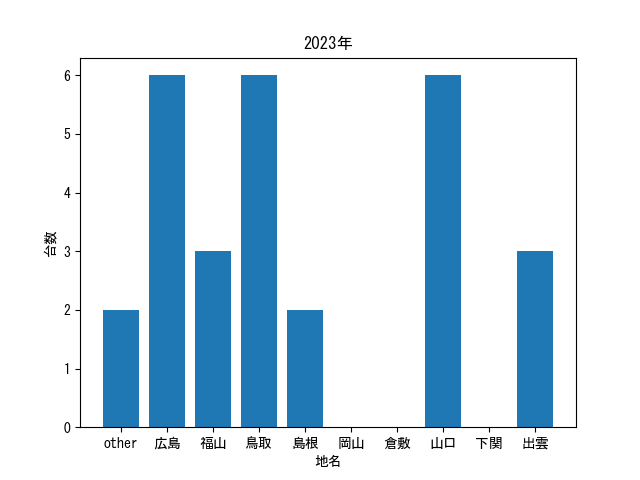
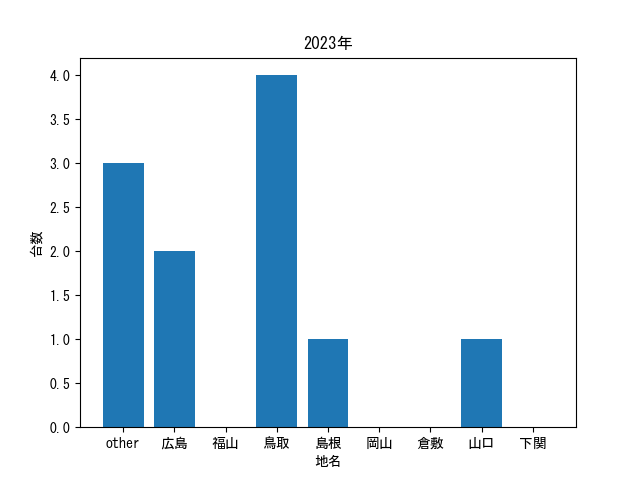
a

diff --git a/test_data/test_annotation3.py b/test_data/test_annotation3.py
@@ -1,0 +1,36 @@
+annotation = [  ['広島', '301', 'や', '39-22'], #test_0
+                ['鳥取', '500', 'ら', '73-24'], #test_1
+                ['鳥取', '580', 'み', '28-77'], #test_2
+                ['鳥取', '580', 'ね', '83-40'], #test_3
+                ['鳥取', '580', 'こ', '68-83'], #test_4
+                ['鳥取', '500', 'も', '60-19'], #test_5
+                ['島根', '300', 'ひ', '30-79'], #test_6
+                ['山口', '54' , 'ら', '90-12'], #test_7
+                ['広島', '584', 'つ', '・421'], #test_8
+                ['鳥取', '300', 'の', '35-62'], #test_9
+                ['広島', '330', 'め', '13-21'], #test_10
+                ['福山', '480', 'こ', '83-21'], #test_11
+                ['広島', '502', 'に', '15-86'], #test_12
+                ['広島', '400', 'に', '15-89'], #test_13
+                ['鳥取', '331', 'ち', '・511'], #test_14
+                ['山口', '331', 'そ', '19-72'], #test_15
+                ['山口', '301', 'そ', '・492'], #test_16
+                ['山口', '581', 'さ', '33-07'], #test_17
+                ['広島', '336', 'や', '・787'], #test_18
+                ['山口', '501', 'ね', '53-46'], #test_19
+                ['福山', '480', 'あ', '78-57'], #test_20
+                ['下関', '500', 'す', '45-36'], #test_21
+                ['下関', '330', 'そ', '・404'], #test_22
+                ['下関', '500', 'す', '45-36'], #test_23
+                ['福山', '480', 'け', '54-18'], #test_24
+                ['福山', '41' , 'き', '83-63'], #test_25
+                ['岡山', '33' , 'は', '88-04'], #test_26
+                ['岡山', '300', 'の', '74-17'], #test_27
+                ['倉敷', '583', 'う', '30-48'], #test_28
+                ['倉敷', '583', 'あ', '37-02'], #test_29
+                ['島根', '530', 'さ', '33-73'], #test_30
+                ['島根', '583', 'あ', '・589'], #test_31
+                ['出雲', '480', 'わ', '・・・1'], #test_32
+                ['出雲', '310', 'す', '85-44'], #test_33
+                ['福山', '555', 'に', '・660'], #test_34
+]

diff --git a/test_rc.py b/test_rc.py
@@ -4,6 +4,8 @@ import numpy as np
 from matplotlib import pyplot as plt
 # from test_data import test_annotation as ta
 from test_data import test_annotation2 as ta
+# from test_data import test_annotation3 as ta
+# from test_data import test_annotation_gotouchi as ta
 
 import glob
 import natsort
@@ -18,10 +20,13 @@ from recognition import NPrecognition_v3 as npr
 
 file_path_list = []
 # files = glob.glob('./images/test_images/*.jpg')
-# files = glob.glob('./images/test_images_2/*.jpg')
-files = glob.glob('./images/test_images_2_dark/*.jpg')
+files = glob.glob('./images/test_images_2/*.jpg')
+# files = glob.glob('./images/test_images_2_2/*.jpg')
+# files = glob.glob('./images/test_images_2_dark/*.jpg')
 # files = glob.glob('./images/test_images_2_dark_top/*.jpg')
 # files = glob.glob('./images/test_images_2_light/*.jpg')
+# files = glob.glob('./images/gotouchi/*.jpg')
+
 for i in natsort.natsorted(files):
     file_path_list.append(i)
 

diff --git a/test_data/test_annotation_gotouchi.py b/test_data/test_annotation_gotouchi.py
@@ -1,0 +1,16 @@
+annotation = [  ['鳥取', '599', 'あ', '20-46'],     #test_0
+                ['山口', '599', 'さ', '20-46'],
+                ['鳥取', '599', 'あ', '20-46'],
+                ['出雲', '599', 'あ', '20-46'],
+                ['出雲', '599', 'あ', '20-46'],
+                ['下関', '599', 'さ', '20-46'],
+                ['下関', '599', 'さ', '20-46'],
+                ['福山', '599', 'あ', '20-46'],
+                ['広島', '599', 'さ', '20-46'],
+                ['広島', '599', 'さ', '20-46'],
+                ['広島', '599', 'さ', '20-46'],
+                ['山口', '599', 'さ', '20-46'],
+                ['福山', '555', 'に', '・660'],
+                ['福山', '330', 'も', '29-80'],
+                ['岡山', '530', 'い', '20-20'],
+]

diff --git a/model_figure.py b/model_figure.py
@@ -1,0 +1,5 @@
+import tensorflow as tf
+
+model = tf.keras.models.load_model("./myModels/area_model(e)1", compile=False)
+
+tf.keras.utils.plot_model(model, show_shapes=True, expand_nested=True, to_file='model2.png')
